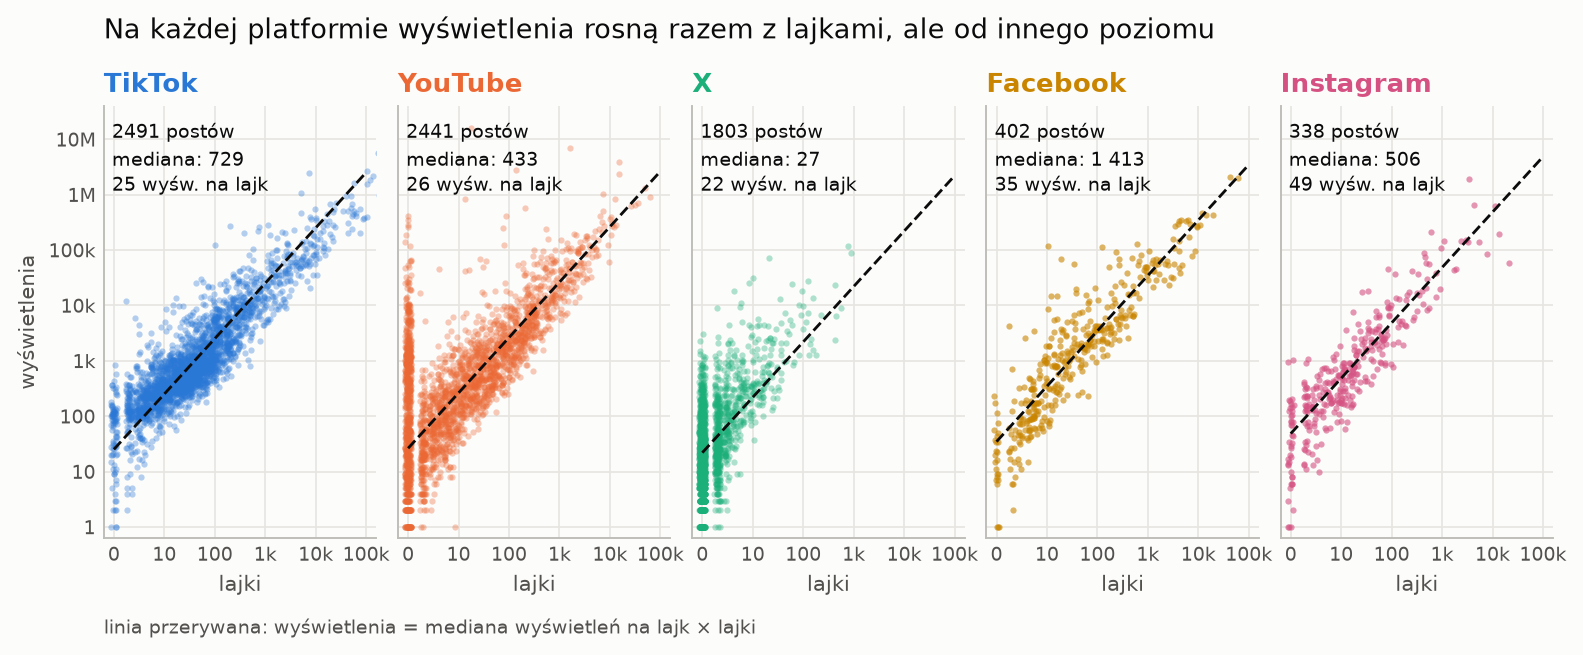
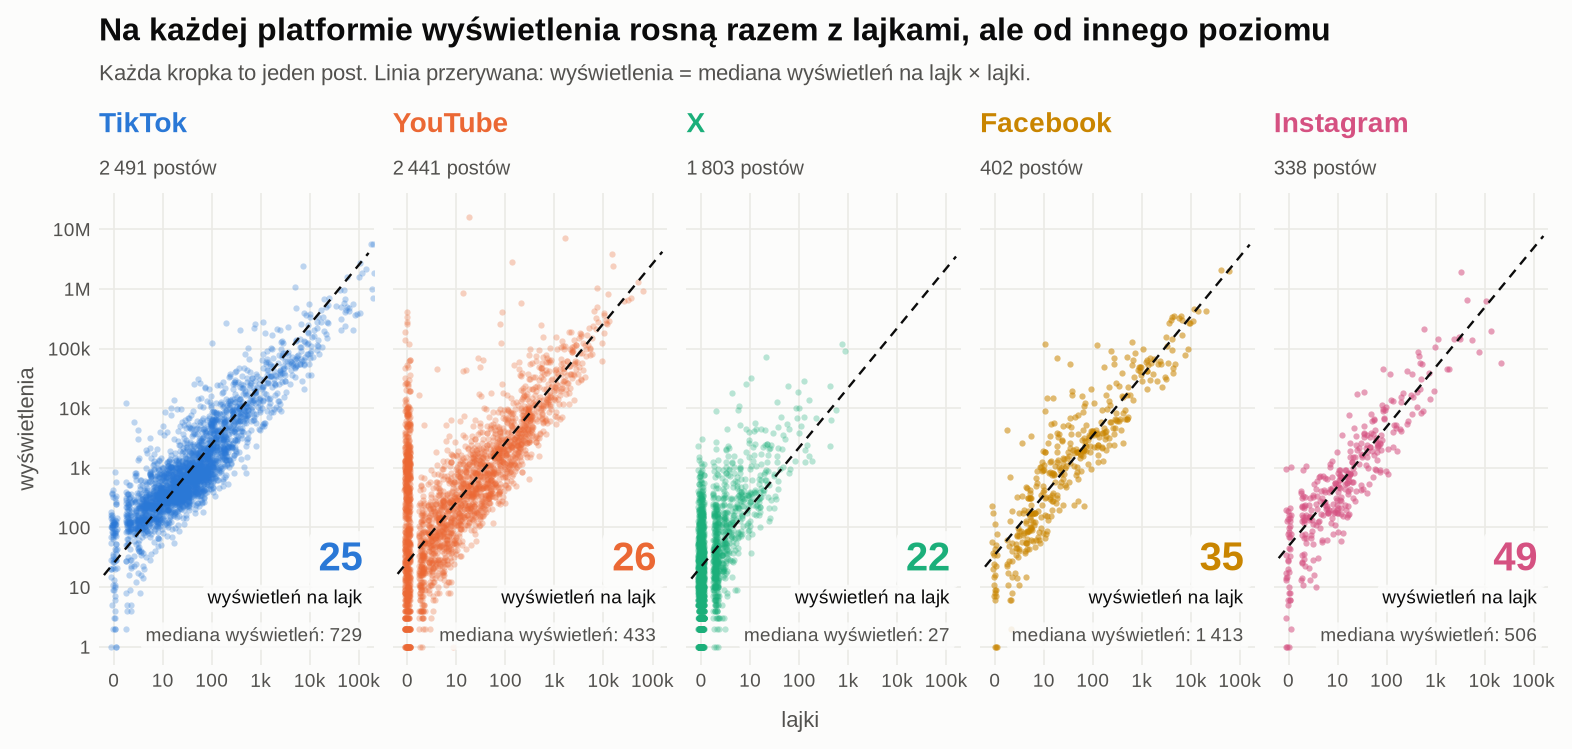
Restyle data overview figure text

diff --git a/src/data_overview.py b/src/data_overview.py
@@ -37,31 +37,40 @@ COL = {"tiktok": "#2a78d6", "youtube": "#eb6834", "twitter": "#1baf7a", "faceboo
 
 def figure(d, rows, lang):
     T = {"en": ("Views grow with likes on every platform, from a different level on each",
-                "likes", "views", "median", "views per like", "posts", "dashed: views = median views per like × likes"),
+                "Each dot is one post. Dashed line: views = median views per like × likes.",
+                "likes", "views", "views per like", "posts", "median views"),
          "pl": ("Na każdej platformie wyświetlenia rosną razem z lajkami, ale od innego poziomu",
-                "lajki", "wyświetlenia", "mediana", "wyśw. na lajk", "postów", "linia przerywana: wyświetlenia = mediana wyświetleń na lajk × lajki")}[lang]
-    fig, ax = plt.subplots(1, len(P), figsize=(11, 3.3), sharex=True, sharey=True, gridspec_kw={"wspace": 0.08})
+                "Każda kropka to jeden post. Linia przerywana: wyświetlenia = mediana wyświetleń na lajk × lajki.",
+                "lajki", "wyświetlenia", "wyświetleń na lajk", "postów", "mediana wyświetleń")}[lang]
+    num = lambda v: f"{v:,.0f}".replace(",", "\u2009")
+    from matplotlib import font_manager as fm
+    for f in Path("/usr/share/fonts/truetype/liberation").glob("LiberationSans-*.ttf"): fm.fontManager.addfont(str(f))
+    plt.rcParams.update({"font.family": "Liberation Sans" if any(f.name == "Liberation Sans" for f in fm.fontManager.ttflist) else "DejaVu Sans"})
+    fig, ax = plt.subplots(1, len(P), figsize=(11, 3.6), sharex=True, sharey=True, gridspec_kw={"wspace": 0.07})
     fig.patch.set_facecolor(SURF)
     rng = np.random.default_rng(0)
     for a, p in zip(ax, P):
-        s = d[d.platform == p]
+        s = d[d.platform == p]; r = rows[p]
         x = np.log10(np.expm1(s.log_likes.values) + 1) + rng.uniform(-.06, .06, len(s)); y = s.y.values
         a.set_facecolor(SURF)
-        a.scatter(x, y, s=7, color=COL[p], alpha=.35 if len(s) > 1000 else .6, linewidth=0, rasterized=True)
-        k = np.log10(rows[p]["median views per like"]); xx = np.array([0, 5])
-        a.plot(xx, xx + k, color=INK, lw=1.2, ls="--")
-        a.set_title(LAB[p], fontsize=11, color=COL[p], fontweight="bold", loc="left")
-        a.text(0.03, 0.97, f"{len(s)} {T[5]}\n{T[3]}: {rows[p]['median views']:,.0f}\n{rows[p]['median views per like']:.0f} {T[4]}".replace(",", " "),
-               transform=a.transAxes, va="top", fontsize=8, color=INK, linespacing=1.4)
-        a.grid(color="#e6e5e0", lw=.7); a.set_axisbelow(True)
-        [a.spines[q].set_visible(False) for q in ("top", "right")]; [a.spines[q].set_color("#bdbcb6") for q in ("left", "bottom")]
-        a.tick_params(length=0, labelsize=8, colors=MUTED); a.set_xlabel(T[1], fontsize=9, color=MUTED)
-    lab = lambda t: ["1", "10", "100", "1k", "10k", "100k", "1M", "10M"][t]
-    ax[0].set_xticks(range(0, 6)); ax[0].set_xticklabels(["0"] + [lab(t) for t in range(1, 6)])
-    ax[0].set_yticks(range(0, 8)); ax[0].set_yticklabels([lab(t) for t in range(0, 8)])
-    ax[0].set_xlim(-.2, 5.2); ax[0].set_ylim(-.2, 7.6); ax[0].set_ylabel(T[2], fontsize=9, color=MUTED)
-    fig.suptitle(T[0], fontsize=11.5, x=.125, ha="left", y=1.04, color=INK)
-    fig.text(.125, -.06, T[6], fontsize=8, color=MUTED)
+        a.scatter(x, y, s=7, color=COL[p], alpha=.3 if len(s) > 1000 else .55, linewidth=0, rasterized=True)
+        k = np.log10(r["median views per like"]); xx = np.array([-.2, 5.2])
+        a.plot(xx, xx + k, color=INK, lw=1, ls=(0, (4, 3)))
+        a.text(0, 1.13, LAB[p], transform=a.transAxes, fontsize=12, color=COL[p], fontweight="bold")
+        a.text(0, 1.04, f"{num(len(s))} {T[5]}", transform=a.transAxes, fontsize=8.5, color=MUTED)
+        a.text(.96, .2, f"{r['median views per like']:.0f}", transform=a.transAxes, ha="right", fontsize=17, fontweight="bold", color=COL[p], bbox=dict(boxstyle="round,pad=0.25", fc=SURF, ec="none", alpha=.85))
+        a.text(.96, .13, T[4], transform=a.transAxes, ha="right", fontsize=8, color=INK, bbox=dict(boxstyle="round,pad=0.25", fc=SURF, ec="none", alpha=.85))
+        a.text(.96, .05, f"{T[6]}: {num(r['median views'])}", transform=a.transAxes, ha="right", fontsize=8, color=MUTED, bbox=dict(boxstyle="round,pad=0.25", fc=SURF, ec="none", alpha=.85))
+        a.grid(color="#ebeae6", lw=.7); a.set_axisbelow(True)
+        [a.spines[q].set_visible(False) for q in a.spines]
+        a.tick_params(length=0, labelsize=8, colors=MUTED)
+    lab = ["0", "10", "100", "1k", "10k", "100k", "1M", "10M"]
+    ax[0].set_xticks(range(0, 6)); ax[0].set_xticklabels(lab[:6])
+    ax[0].set_yticks(range(0, 8)); ax[0].set_yticklabels(["1"] + lab[1:])
+    ax[0].set_xlim(-.3, 5.3); ax[0].set_ylim(-.3, 7.6)
+    fig.supxlabel(T[2], fontsize=9.5, color=MUTED, y=.0); ax[0].set_ylabel(T[3], fontsize=9.5, color=MUTED)
+    fig.text(.125, 1.13, T[0], fontsize=13.5, fontweight="bold", color=INK)
+    fig.text(.125, 1.065, T[1], fontsize=9.5, color=MUTED)
     fig.savefig(ROOT / "figures" / f"data_overview_{lang}.png", dpi=170, bbox_inches="tight", facecolor=SURF); plt.close(fig)
     if lang == "pl":
         out = ROOT / "docs/pl/figures"; out.mkdir(exist_ok=True)
